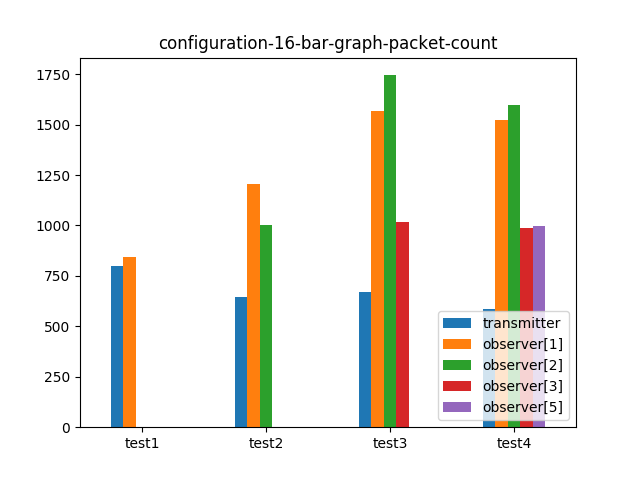
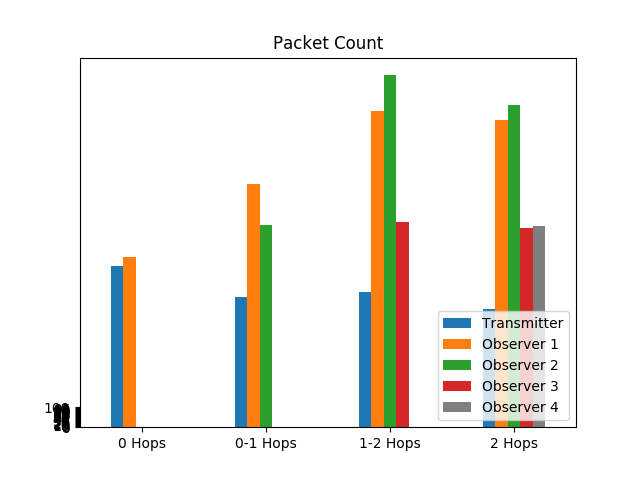
neatened up script to generate bar_graphs
Also added default colours

diff --git a/results/bar_graph.py b/results/bar_graph.py
@@ -93,33 +93,100 @@ from util import extract_test_results, recursive_extract, summary, directory_pre
 #     "test7":"LR: .9\nRR: .9\n",
 # }
 
-#configuration 15
-order_map = {
-    "test1":0,
-    "test2":1,
-    "test3":2,
-    "test4":3,
-    "test5":4,
-    "test6":5,
-    "test7":6,
-    "test8":7,
-    "test9":8,
-    "test10":9,
-    "test11":10,
-}
-
-label_map = {
-    "test1":"0\n",
-    "test2":"1\n",
-    "test3":"2\n",
-    "test4":"3\n",
-    "test5":"4\n",
-    "test6":"5\n",
-    "test7":"6\n",
-    "test8":"7\n",
-    "test9":"8\n",
-    "test10":"9\n",
-    "test11":"10\n",
+mapping = {
+    "16" : {
+        "order_map":{
+            "test1":0,
+            "test2":1,
+            "test3":2,
+            "test4":3,
+            "test5":4,
+            "test6":5,
+            "test7":6,
+            "test8":7,
+            "test9":8,
+            "test10":9,
+            "test11":10,
+        },
+        "label_map" : {
+            "test1":"0 Hops\n",
+            "test2":"0-1 Hops\n",
+            "test3":"1-2 Hops\n",
+            "test4":"2 Hops\n",
+        },
+        "device_name_map" : {
+            "transmitter":"Transmitter",
+            "observer[1]":"Observer 1",
+            "observer[2]":"Observer 2",
+            "observer[3]":"Observer 3",
+            "observer[5]":"Observer 4",
+            "observer[6]":"Observer 5",
+            "observer[7]":"Observer 6",
+            "observer[8]":"Observer 7",
+        },
+        "color_map":["#1f77b4","#ff7f0e",'#2ca02c', '#d62728', '#7f7f7f'],
+        'sort_list' : ["Transmitter", "Observer 1", "Observer 2", "Observer 3", "Observer 4"]
+    },
+    "17" : {
+        "order_map":{
+            "test1":0,
+            "test2":1,
+            "test3":2,
+            "test4":3,
+            "test5":4,
+            "test6":5,
+            "test7":6,
+            "test8":7,
+            "test9":8,
+            "test10":9,
+            "test11":10,
+        },
+        "label_map" : {
+            "test1":""
+        },
+        "device_name_map" : {
+            "transmitter":"Transmitter",
+            "observer[1]":"Observer 1",
+            "observer[2]":"Observer 2",
+            "observer[3]":"Observer 3",
+            "observer[5]":"Observer 4",
+            "observer[6]":"Observer 5",
+            "observer[7]":"Observer 6",
+            "observer[8]":"Observer 7",
+        },
+        "sort_list" : ["Transmitter", "Observer 5", "Observer 1", "Observer 2", "Observer 3", "Observer 6", "Observer 7", "Observer 4"],
+        "color_map": ["#1f77b4", '#9467bd',"#ff7f0e",'#2ca02c', '#d62728', '#8c564b', '#e377c2', '#7f7f7f']
+    },
+    "18" : {
+        "order_map":{
+            "test1":0,
+            "test2":1,
+            "test3":2,
+            "test4":3,
+            "test5":4,
+            "test6":5,
+            "test7":6,
+            "test8":7,
+            "test9":8,
+            "test10":9,
+            "test11":10,
+        },
+        "label_map" : {
+            "test1":""
+        },
+        "device_name_map" : {
+            "transmitter":"Transmitter",
+            "observer[1]":"Observer 1",
+            "observer[2]":"Observer 2",
+            "observer[3]":"Observer 3",
+            "observer[5]":"Observer 4",
+            "observer[6]":"Observer 5",
+            "observer[7]":"Observer 6",
+            "observer[8]":"Observer 7",
+        },
+        "color_map":["#1f77b4","#ff7f0e",'#2ca02c', '#d62728', '#7f7f7f'],
+        'sort_list' : ["Transmitter", "Observer 1", "Observer 2", "Observer 3", "Observer 4"]
+    }
 }
 
 cfg = 0
@@ -144,36 +211,46 @@ labels = []
 packet_count_data = {}
 reliability_data = {}
 
+current_map = mapping[str(cfg)]
+
 for config in summary.keys():
     for device in summary[config].keys():
+
+        d_name = device
+
+        if device in current_map["device_name_map"]:
+            d_name = current_map["device_name_map"][device]
+
         if len(labels) == 0:
             labels = [0] * len(summary[config][device].keys())
-        packet_count_data[device] = [0] * len(labels)
-        reliability_data[device] = [0] * len(labels)
+        packet_count_data[d_name] = [0] * len(labels)
+        reliability_data[d_name] = [0] * len(labels)
 
         for idx,test in enumerate(summary[config][device].keys()):
-            labels[order_map[test]] = test
-            packet_count_data[device][order_map[test]] = sum(summary[config][device][test]["counters"])
-            reliability_data[device][order_map[test]] = summary[config][device][test]["reliability"]
+            labels[current_map["order_map"][test]] = current_map["label_map"][test]
+            packet_count_data[d_name][current_map["order_map"][test]] = sum(summary[config][device][test]["counters"])
+            reliability_data[d_name][current_map["order_map"][test]] = summary[config][device][test]["reliability"]
 
 print (packet_count_data)
 print (reliability_data)
 
 title = "configuration-"+str(cfg)+"-bar-graph"
 
-data_frames = [{"alt_title":"packet-count","title":"Packet Count", "df": pd.DataFrame(packet_count_data, index=labels)}, {"alt_title":"reliability","title":"\% of sequence numbers seen", "df": pd.DataFrame(reliability_data, index=labels)}]
+data_frames = [{"alt_title":"packet-count","title":"Packet Count", "df": pd.DataFrame(packet_count_data, index=labels)}, {"alt_title":"reliability","title":"% of sequence numbers seen", "df": pd.DataFrame(reliability_data, index=labels)}]
 
 for df in data_frames:
-    t = title + "-" + df["alt_title"]
-    plt = df["df"].plot.bar(title = t, rot=0) #, legend=False , yticks=(spacing)
-    plt.legend(loc='lower right')
-    # print(str(plt))
-    # for idx, bar in enumerate(plt.patches):
-    #     h = bar.get_height()
-    #     if h < 13:
-    #         h = 14
-    #     plt.text(bar.get_x() + bar.get_width()/2., h - 13, '%.2f' % float(data_points[idx]), ha='center', va='bottom', rotation=90)
 
+    df["df"] = df["df"][current_map["sort_list"]]
+    t = title + "-" + df["alt_title"]
+
+    spacing = [i for i in range(0,105,5)]
+
+    if "color_map" in current_map.keys():
+        plt = df["df"].plot.bar(title = df["title"], rot=0, color=current_map["color_map"], yticks=(spacing)) #, legend=False , yticks=(spacing)
+    else:
+        plt = df["df"].plot.bar(title = df["title"], rot=0, yticks=(spacing)) #, legend=False , yticks=(spacing)
+
+    plt.legend(loc='lower right')
     fig = plt.get_figure()
     # fig.set_figheight(8)
     fig.savefig(t, dpi=100)
